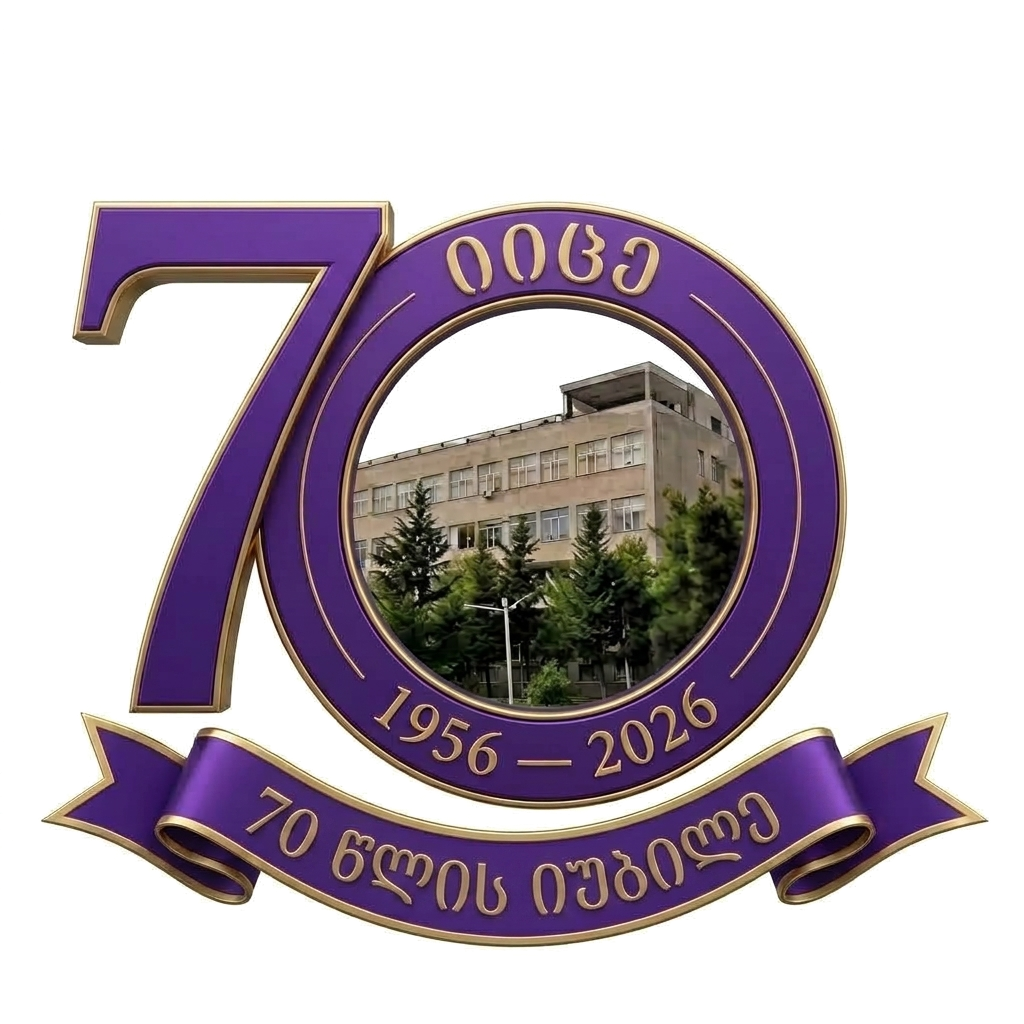
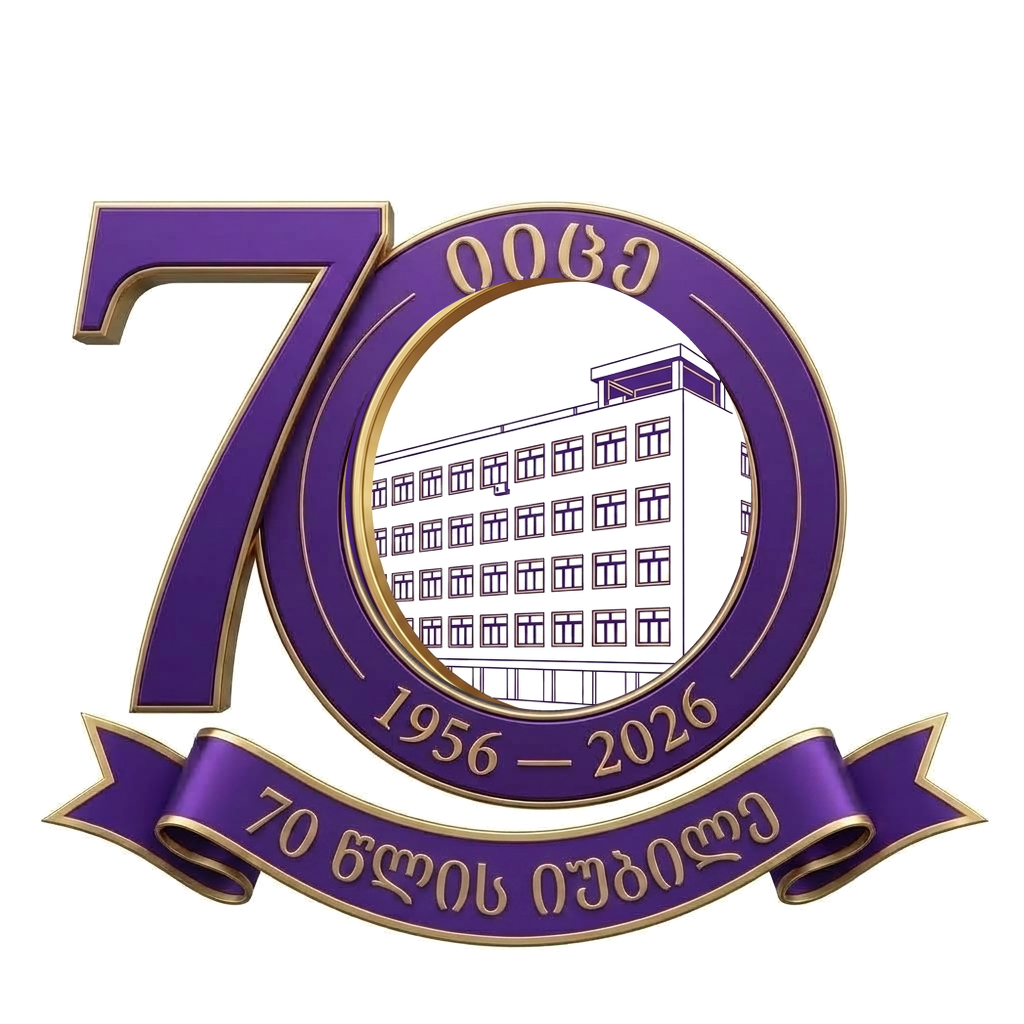
feat: set Version 3A (Architectural Building Drawing without flasks) as official emblem across site

Changed region(s): [[0.3125, 0.25, 0.75, 0.7188]]

diff --git a/src/app/logo-preview/page.js b/src/app/logo-preview/page.js
@@ -6,44 +6,44 @@ import { ArrowLeft, Sparkles, Download, ExternalLink, Check, FlaskConical, Build
 
 const VERSIONS = [
     {
-        id: 'v1-geo',
+        id: 'v3-arch-geo',
         category: 'ოფიციალური არჩევანი (საიტზე აქტიური)',
-        titleKa: 'ვერსია 1A: სუფთა მედალიონი — ქართული („იიცე“)',
-        titleEn: 'Version 1A: Clean Academic Ring — Georgian ("იიცე")',
-        badgeKa: 'ოფიციალურად არჩეული ვერსია • ქართული',
-        badgeEn: 'OFFICIAL CHOSEN VERSION • GEORGIAN',
-        descKa: 'სრულიად სუფთა და აკადემიური წრე: ზემოთ "იიცე", ქვემოთ "1956 — 2026", ლენტზე "70 წლის იუბილე". ცენტრში ინსტიტუტის რეალური შენობა და მწვანე ნაძვები.',
-        descEn: 'Completely clean and minimalist circular medallion: "იიცე" at top, "1956 — 2026" at bottom, and "70 წლის იუბილე" on ribbon. Authentic building in center.',
+        titleKa: 'ვერსია 3A: არქიტექტურული ნახატით — ქართული („იიცე“)',
+        titleEn: 'Version 3A: Architectural Line Drawing — Georgian ("იიცე")',
+        badgeKa: 'ოფიციალური არჩევანი • კოლბების გარეშე',
+        badgeEn: 'OFFICIAL CHOSEN • NO FLASKS',
+        descKa: 'თქვენ მიერ გამოგზავნილი ინსტიტუტის შენობის არქიტექტურული ხაზობრივი ნახატი „0“-ში. „7“-ის ძირი სრულიად სუფთაა (ყოველგვარი კოლბების გარეშე), ზემოთ „იიცე“, ქვემოთ „1956 — 2026“, ლენტზე „70 წლის იუბილე“.',
+        descEn: 'Features the architectural building line drawing you uploaded inside the "0". Clean 3D "7" without any chemical flasks. "იიცე" at top, "1956 — 2026" at bottom, and "70 წლის იუბილე" on the ribbon.',
         imgSrc: '/conference-2026/iice-70-clean-geo.png',
-        downloadName: 'iice-70-clean-geo.png',
+        downloadName: 'iice-70-arch-geo.png',
         lang: 'ka',
-        buildingType: 'რეალური ფოტო ნაძვებით',
+        buildingType: 'არქიტექტურული ნახატი (თქვენი გამოგზავნილი)',
         hasChem: false
     },
     {
-        id: 'v1-eng',
+        id: 'v3-arch-eng',
         category: 'ოფიციალური არჩევანი (საიტზე აქტიური)',
-        titleKa: 'ვერსია 1B: სუფთა მედალიონი — ინგლისური („IICE“)',
-        titleEn: 'Version 1B: Clean Academic Ring — English ("IICE")',
-        badgeKa: 'ოფიციალურად არჩეული ვერსია • ინგლისური',
-        badgeEn: 'OFFICIAL CHOSEN VERSION • ENGLISH',
-        descKa: 'ინგლისურენოვანი სუფთა საიუბილეო ემბლემა: ზემოთ "IICE", ქვემოთ "1956 — 2026", ლენტზე "70 YEARS ANNIVERSARY". სიმეტრიული და აკადემიური საერთაშორისო ვერსია.',
-        descEn: 'International minimalist jubilee emblem: "IICE" at top, "1956 — 2026" at bottom, "70 YEARS ANNIVERSARY" on ribbon. Symmetrical and academic.',
+        titleKa: 'ვერსია 3A: არქიტექტურული ნახატით — ინგლისური („IICE“)',
+        titleEn: 'Version 3A: Architectural Line Drawing — English ("IICE")',
+        badgeKa: 'ოფიციალური საერთაშორისო • კოლბების გარეშე',
+        badgeEn: 'OFFICIAL INTERNATIONAL • NO FLASKS',
+        descKa: 'საერთაშორისო გამოცემა შენობის არქიტექტურული ნახატით, კოლბების გარეშე: ზემოთ „IICE“, ქვემოთ „1956 — 2026“, ლენტზე „ANNIVERSARY“.',
+        descEn: 'International edition featuring the architectural building line drawing inside the "0", clean "7" with no flasks, "IICE" at top, "1956 — 2026" at bottom, and ribbon.',
         imgSrc: '/conference-2026/iice-70-clean-eng.png',
-        downloadName: 'iice-70-clean-eng.png',
+        downloadName: 'iice-70-arch-eng.png',
         lang: 'en',
-        buildingType: 'რეალური ფოტო ნაძვებით',
+        buildingType: 'არქიტექტურული ნახატი (თქვენი გამოგზავნილი)',
         hasChem: false
     },
     {
         id: 'v3-arch-chem',
         category: 'სხვა ვარიანტები (არქივი)',
-        titleKa: 'ვერსია 3A: არქიტექტურული შენობის ნახატით + ქიმიური კოლბები',
-        titleEn: 'Version 3A: Architectural Building Drawing + Chemical Flasks',
-        badgeKa: 'არქიტექტურული ნახატით',
-        badgeEn: 'ARCHITECTURAL DRAWING',
-        descKa: 'არქიტექტურული შენობის ხაზობრივი ნახატი "0"-ში. "7"-ის ძირში დამატებულია დახვეწილი კრისტალური ქიმიური კოლბები, ხოლო ლოგოს მარჯვენა მხარე სრულიად სუფთა და დაუფარავია.',
-        descEn: 'Features the architectural building line drawing inside the "0". At the base of the "7", crystal chemical flasks add scientific flair without covering any part of the logo or building.',
+        titleKa: 'ვერსია 3A (კოლბებით): არქიტექტურული ნახატი + ქიმიური კოლბები',
+        titleEn: 'Version 3A (With Flasks): Architectural Drawing + Chemical Flasks',
+        badgeKa: 'არქიტექტურული + კოლბები',
+        badgeEn: 'ARCHITECTURAL + FLASKS',
+        descKa: 'არქიტექტურული შენობის ხაზობრივი ნახატი „0“-ში + კოლბები „7“-ის ძირში.',
+        descEn: 'Features the architectural line drawing inside the "0" with crystal laboratory flasks at the base of "7".',
         imgSrc: '/conference-2026/iice-70-arch-chem.png',
         downloadName: 'iice-70-arch-chem.png',
         lang: 'en',
@@ -53,12 +53,12 @@ const VERSIONS = [
     {
         id: 'v3-real-chem',
         category: 'სხვა ვარიანტები (არქივი)',
-        titleKa: 'ვერსია 3B: რეალური შენობის ფოტოთი + ქიმიური კოლბები',
-        titleEn: 'Version 3B: Real Building with Trees + Chemical Flasks',
+        titleKa: 'ვერსია 3B (კოლბებით): რეალური შენობის ფოტოთი + ქიმიური კოლბები',
+        titleEn: 'Version 3B (With Flasks): Real Building with Trees + Chemical Flasks',
         badgeKa: 'რეალური შენობა + კოლბები',
         badgeEn: 'REAL BUILDING + FLASKS',
-        descKa: 'ინსტიტუტის რეალური ფერადი შენობა და მწვანე ნაძვები "0"-ში. "7"-ის ძირში ქიმიური ლაბორატორიის კოლბები და ბუშტუკები, ლოგოსა და შენობის გადაფარვის გარეშე.',
-        descEn: 'Authentic color photograph of the institute building with green pine trees inside the "0", paired with crystal chemical flasks at the foot of "7", with zero obstruction on the logo ring.',
+        descKa: 'ინსტიტუტის რეალური ფერადი შენობა და მწვანე ნაძვები „0“-ში + ქიმიური კოლბები.',
+        descEn: 'Authentic color photograph of the institute building with green pine trees inside the "0" with crystal flasks.',
         imgSrc: '/conference-2026/iice-70-real-chem.png',
         downloadName: 'iice-70-real-chem.png',
         lang: 'en',
@@ -72,8 +72,8 @@ const VERSIONS = [
         titleEn: 'Version 2: Electrochemical Voltammetry Curve in Sky',
         badgeKa: 'აგლაძის ელექტროქიმია',
         badgeEn: 'ELECTROCHEMISTRY CURVE',
-        descKa: 'სუფთა წრიული სილუეტი, სადაც შენობის თავზე ცაში ნაზად არის ინტეგრირებული ინსტიტუტის ლოგოს ციკლური ვოლტამპეროგრამა, ყოველგვარი გადამფარავი ორბიტების გარეშე.',
-        descEn: 'Clean circular ring subtly tracing the official cyclic voltammetry curve in the sky above the building, without any external orbital clutter.',
+        descKa: 'სუფთა წრიული სილუეტი, სადაც შენობის თავზე ცაში ნაზად არის ინტეგრირებული ინსტიტუტის ლოგოს ციკლური ვოლტამპეროგრამა.',
+        descEn: 'Clean circular ring subtly tracing the official cyclic voltammetry curve in the sky above the building.',
         imgSrc: '/conference-2026/iice-70-clean-curve.png',
         downloadName: 'iice-70-clean-curve.png',
         lang: 'en',
@@ -83,7 +83,7 @@ const VERSIONS = [
 ];
 
 export default function LogoPreviewPage() {
-    const [selectedId, setSelectedId] = useState('v1-geo');
+    const [selectedId, setSelectedId] = useState('v3-arch-geo');
     const [bgPreview, setBgPreview] = useState('white');
 
     const active = VERSIONS.find(v => v.id === selectedId) || VERSIONS[0];
